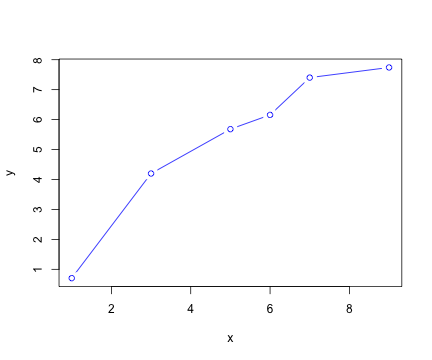
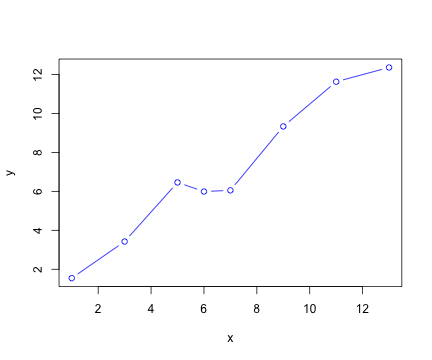
minor change

diff --git a/docs/about.html b/docs/about.html
@@ -259,51 +259,51 @@ pre > code.sourceCode > span > a:first-child::before { text-decoration: underlin
 <div class="sourceCode cell-code" id="cb1"><pre class="sourceCode julia code-with-copy"><code class="sourceCode julia"><span id="cb1-1"><a href="#cb1-1" aria-hidden="true" tabindex="-1"></a><span class="im">using</span> <span class="bu">Plots</span></span>
 <span id="cb1-2"><a href="#cb1-2" aria-hidden="true" tabindex="-1"></a><span class="fu">f</span>(x) <span class="op">=</span> x<span class="op">^</span><span class="fl">3</span> <span class="op">+</span> <span class="fl">2</span>x<span class="op">^</span><span class="fl">2</span> <span class="op">-</span> <span class="fl">7</span>x <span class="op">+</span> <span class="fl">35</span></span>
 <span id="cb1-3"><a href="#cb1-3" aria-hidden="true" tabindex="-1"></a><span class="fu">plot</span>(f)</span></code><button title="Copy to Clipboard" class="code-copy-button"><i class="bi"></i></button></pre></div>
-<div class="cell-output cell-output-display" data-execution_count="6">
+<div class="cell-output cell-output-display" data-execution_count="2">
 <!--?xml version="1.0" encoding="utf-8"?-->
 <svg xmlns="http://www.w3.org/2000/svg" xlink="http://www.w3.org/1999/xlink" width="672" height="480" viewbox="0 0 2688 1920">
 <defs>
-  <clippath id="clip400">
+  <clippath id="clip750">
     <rect x="0" y="0" width="2688" height="1920"></rect>
   </clippath>
 </defs>
-<path clip-path="url(#clip400)" d="M0 1920 L2688 1920 L2688 0 L0 0  Z" fill="#ffffff" fill-rule="evenodd" fill-opacity="1"></path>
+<path clip-path="url(#clip750)" d="M0 1920 L2688 1920 L2688 0 L0 0  Z" fill="#ffffff" fill-rule="evenodd" fill-opacity="1"></path>
 <defs>
-  <clippath id="clip401">
+  <clippath id="clip751">
     <rect x="537" y="0" width="1883" height="1883"></rect>
   </clippath>
 </defs>
-<path clip-path="url(#clip400)" d="M172.001 1800.78 L2640.76 1800.78 L2640.76 47.2441 L172.001 47.2441  Z" fill="#ffffff" fill-rule="evenodd" fill-opacity="1"></path>
+<path clip-path="url(#clip750)" d="M172.001 1800.78 L2640.76 1800.78 L2640.76 47.2441 L172.001 47.2441  Z" fill="#ffffff" fill-rule="evenodd" fill-opacity="1"></path>
 <defs>
-  <clippath id="clip402">
+  <clippath id="clip752">
     <rect x="172" y="47" width="2470" height="1755"></rect>
   </clippath>
 </defs>
-<polyline clip-path="url(#clip402)" style="stroke:#000000; stroke-linecap:round; stroke-linejoin:round; stroke-width:2; stroke-opacity:0.1; fill:none" points="474.773,1800.78 474.773,47.2441 "></polyline>
-<polyline clip-path="url(#clip402)" style="stroke:#000000; stroke-linecap:round; stroke-linejoin:round; stroke-width:2; stroke-opacity:0.1; fill:none" points="940.576,1800.78 940.576,47.2441 "></polyline>
-<polyline clip-path="url(#clip402)" style="stroke:#000000; stroke-linecap:round; stroke-linejoin:round; stroke-width:2; stroke-opacity:0.1; fill:none" points="1406.38,1800.78 1406.38,47.2441 "></polyline>
-<polyline clip-path="url(#clip402)" style="stroke:#000000; stroke-linecap:round; stroke-linejoin:round; stroke-width:2; stroke-opacity:0.1; fill:none" points="1872.18,1800.78 1872.18,47.2441 "></polyline>
-<polyline clip-path="url(#clip402)" style="stroke:#000000; stroke-linecap:round; stroke-linejoin:round; stroke-width:2; stroke-opacity:0.1; fill:none" points="2337.98,1800.78 2337.98,47.2441 "></polyline>
-<polyline clip-path="url(#clip400)" style="stroke:#000000; stroke-linecap:round; stroke-linejoin:round; stroke-width:4; stroke-opacity:1; fill:none" points="172.001,1800.78 2640.76,1800.78 "></polyline>
-<polyline clip-path="url(#clip400)" style="stroke:#000000; stroke-linecap:round; stroke-linejoin:round; stroke-width:4; stroke-opacity:1; fill:none" points="474.773,1800.78 474.773,1781.88 "></polyline>
-<polyline clip-path="url(#clip400)" style="stroke:#000000; stroke-linecap:round; stroke-linejoin:round; stroke-width:4; stroke-opacity:1; fill:none" points="940.576,1800.78 940.576,1781.88 "></polyline>
-<polyline clip-path="url(#clip400)" style="stroke:#000000; stroke-linecap:round; stroke-linejoin:round; stroke-width:4; stroke-opacity:1; fill:none" points="1406.38,1800.78 1406.38,1781.88 "></polyline>
-<polyline clip-path="url(#clip400)" style="stroke:#000000; stroke-linecap:round; stroke-linejoin:round; stroke-width:4; stroke-opacity:1; fill:none" points="1872.18,1800.78 1872.18,1781.88 "></polyline>
-<polyline clip-path="url(#clip400)" style="stroke:#000000; stroke-linecap:round; stroke-linejoin:round; stroke-width:4; stroke-opacity:1; fill:none" points="2337.98,1800.78 2337.98,1781.88 "></polyline>
-<path clip-path="url(#clip400)" d="M443.674 1848.65 L473.35 1848.65 L473.35 1852.59 L443.674 1852.59 L443.674 1848.65 Z" fill="#000000" fill-rule="nonzero" fill-opacity="1"></path><path clip-path="url(#clip400)" d="M496.289 1835 L484.484 1853.45 L496.289 1853.45 L496.289 1835 M495.062 1830.92 L500.942 1830.92 L500.942 1853.45 L505.872 1853.45 L505.872 1857.34 L500.942 1857.34 L500.942 1865.48 L496.289 1865.48 L496.289 1857.34 L480.687 1857.34 L480.687 1852.82 L495.062 1830.92 Z" fill="#000000" fill-rule="nonzero" fill-opacity="1"></path><path clip-path="url(#clip400)" d="M910.518 1848.65 L940.194 1848.65 L940.194 1852.59 L910.518 1852.59 L910.518 1848.65 Z" fill="#000000" fill-rule="nonzero" fill-opacity="1"></path><path clip-path="url(#clip400)" d="M954.314 1861.55 L970.634 1861.55 L970.634 1865.48 L948.689 1865.48 L948.689 1861.55 Q951.351 1858.79 955.935 1854.16 Q960.541 1849.51 961.722 1848.17 Q963.967 1845.65 964.847 1843.91 Q965.749 1842.15 965.749 1840.46 Q965.749 1837.71 963.805 1835.97 Q961.884 1834.23 958.782 1834.23 Q956.583 1834.23 954.129 1835 Q951.698 1835.76 948.921 1837.31 L948.921 1832.59 Q951.745 1831.46 954.198 1830.88 Q956.652 1830.3 958.689 1830.3 Q964.06 1830.3 967.254 1832.98 Q970.448 1835.67 970.448 1840.16 Q970.448 1842.29 969.638 1844.21 Q968.851 1846.11 966.745 1848.7 Q966.166 1849.37 963.064 1852.59 Q959.962 1855.78 954.314 1861.55 Z" fill="#000000" fill-rule="nonzero" fill-opacity="1"></path><path clip-path="url(#clip400)" d="M1406.38 1834 Q1402.77 1834 1400.94 1837.57 Q1399.13 1841.11 1399.13 1848.24 Q1399.13 1855.34 1400.94 1858.91 Q1402.77 1862.45 1406.38 1862.45 Q1410.01 1862.45 1411.82 1858.91 Q1413.65 1855.34 1413.65 1848.24 Q1413.65 1841.11 1411.82 1837.57 Q1410.01 1834 1406.38 1834 M1406.38 1830.3 Q1412.19 1830.3 1415.24 1834.9 Q1418.32 1839.49 1418.32 1848.24 Q1418.32 1856.96 1415.24 1861.57 Q1412.19 1866.15 1406.38 1866.15 Q1400.57 1866.15 1397.49 1861.57 Q1394.43 1856.96 1394.43 1848.24 Q1394.43 1839.49 1397.49 1834.9 Q1400.57 1830.3 1406.38 1830.3 Z" fill="#000000" fill-rule="nonzero" fill-opacity="1"></path><path clip-path="url(#clip400)" d="M1866.83 1861.55 L1883.15 1861.55 L1883.15 1865.48 L1861.21 1865.48 L1861.21 1861.55 Q1863.87 1858.79 1868.45 1854.16 Q1873.06 1849.51 1874.24 1848.17 Q1876.49 1845.65 1877.37 1843.91 Q1878.27 1842.15 1878.27 1840.46 Q1878.27 1837.71 1876.32 1835.97 Q1874.4 1834.23 1871.3 1834.23 Q1869.1 1834.23 1866.65 1835 Q1864.22 1835.76 1861.44 1837.31 L1861.44 1832.59 Q1864.26 1831.46 1866.72 1830.88 Q1869.17 1830.3 1871.21 1830.3 Q1876.58 1830.3 1879.77 1832.98 Q1882.97 1835.67 1882.97 1840.16 Q1882.97 1842.29 1882.16 1844.21 Q1881.37 1846.11 1879.26 1848.7 Q1878.69 1849.37 1875.58 1852.59 Q1872.48 1855.78 1866.83 1861.55 Z" fill="#000000" fill-rule="nonzero" fill-opacity="1"></path><path clip-path="url(#clip400)" d="M2340.99 1835 L2329.19 1853.45 L2340.99 1853.45 L2340.99 1835 M2339.77 1830.92 L2345.65 1830.92 L2345.65 1853.45 L2350.58 1853.45 L2350.58 1857.34 L2345.65 1857.34 L2345.65 1865.48 L2340.99 1865.48 L2340.99 1857.34 L2325.39 1857.34 L2325.39 1852.82 L2339.77 1830.92 Z" fill="#000000" fill-rule="nonzero" fill-opacity="1"></path><polyline clip-path="url(#clip402)" style="stroke:#000000; stroke-linecap:round; stroke-linejoin:round; stroke-width:2; stroke-opacity:0.1; fill:none" points="172.001,1705.2 2640.76,1705.2 "></polyline>
-<polyline clip-path="url(#clip402)" style="stroke:#000000; stroke-linecap:round; stroke-linejoin:round; stroke-width:2; stroke-opacity:0.1; fill:none" points="172.001,1245.68 2640.76,1245.68 "></polyline>
-<polyline clip-path="url(#clip402)" style="stroke:#000000; stroke-linecap:round; stroke-linejoin:round; stroke-width:2; stroke-opacity:0.1; fill:none" points="172.001,786.155 2640.76,786.155 "></polyline>
-<polyline clip-path="url(#clip402)" style="stroke:#000000; stroke-linecap:round; stroke-linejoin:round; stroke-width:2; stroke-opacity:0.1; fill:none" points="172.001,326.633 2640.76,326.633 "></polyline>
-<polyline clip-path="url(#clip400)" style="stroke:#000000; stroke-linecap:round; stroke-linejoin:round; stroke-width:4; stroke-opacity:1; fill:none" points="172.001,1800.78 172.001,47.2441 "></polyline>
-<polyline clip-path="url(#clip400)" style="stroke:#000000; stroke-linecap:round; stroke-linejoin:round; stroke-width:4; stroke-opacity:1; fill:none" points="172.001,1705.2 190.899,1705.2 "></polyline>
-<polyline clip-path="url(#clip400)" style="stroke:#000000; stroke-linecap:round; stroke-linejoin:round; stroke-width:4; stroke-opacity:1; fill:none" points="172.001,1245.68 190.899,1245.68 "></polyline>
-<polyline clip-path="url(#clip400)" style="stroke:#000000; stroke-linecap:round; stroke-linejoin:round; stroke-width:4; stroke-opacity:1; fill:none" points="172.001,786.155 190.899,786.155 "></polyline>
-<polyline clip-path="url(#clip400)" style="stroke:#000000; stroke-linecap:round; stroke-linejoin:round; stroke-width:4; stroke-opacity:1; fill:none" points="172.001,326.633 190.899,326.633 "></polyline>
-<path clip-path="url(#clip400)" d="M119.737 1691 Q116.126 1691 114.297 1694.56 Q112.492 1698.1 112.492 1705.23 Q112.492 1712.34 114.297 1715.9 Q116.126 1719.45 119.737 1719.45 Q123.371 1719.45 125.177 1715.9 Q127.005 1712.34 127.005 1705.23 Q127.005 1698.1 125.177 1694.56 Q123.371 1691 119.737 1691 M119.737 1687.29 Q125.547 1687.29 128.603 1691.9 Q131.681 1696.48 131.681 1705.23 Q131.681 1713.96 128.603 1718.57 Q125.547 1723.15 119.737 1723.15 Q113.927 1723.15 110.848 1718.57 Q107.793 1713.96 107.793 1705.23 Q107.793 1696.48 110.848 1691.9 Q113.927 1687.29 119.737 1687.29 Z" fill="#000000" fill-rule="nonzero" fill-opacity="1"></path><path clip-path="url(#clip400)" d="M79.6214 1228.4 L97.9778 1228.4 L97.9778 1232.33 L83.9038 1232.33 L83.9038 1240.8 Q84.9223 1240.46 85.9408 1240.3 Q86.9593 1240.11 87.9778 1240.11 Q93.7649 1240.11 97.1445 1243.28 Q100.524 1246.45 100.524 1251.87 Q100.524 1257.45 97.0519 1260.55 Q93.5797 1263.63 87.2603 1263.63 Q85.0843 1263.63 82.8158 1263.26 Q80.5705 1262.89 78.1631 1262.15 L78.1631 1257.45 Q80.2464 1258.58 82.4686 1259.14 Q84.6908 1259.69 87.1677 1259.69 Q91.1723 1259.69 93.5102 1257.59 Q95.8482 1255.48 95.8482 1251.87 Q95.8482 1248.26 93.5102 1246.15 Q91.1723 1244.05 87.1677 1244.05 Q85.2927 1244.05 83.4177 1244.46 Q81.5658 1244.88 79.6214 1245.76 L79.6214 1228.4 Z" fill="#000000" fill-rule="nonzero" fill-opacity="1"></path><path clip-path="url(#clip400)" d="M119.737 1231.48 Q116.126 1231.48 114.297 1235.04 Q112.492 1238.58 112.492 1245.71 Q112.492 1252.82 114.297 1256.38 Q116.126 1259.92 119.737 1259.92 Q123.371 1259.92 125.177 1256.38 Q127.005 1252.82 127.005 1245.71 Q127.005 1238.58 125.177 1235.04 Q123.371 1231.48 119.737 1231.48 M119.737 1227.77 Q125.547 1227.77 128.603 1232.38 Q131.681 1236.96 131.681 1245.71 Q131.681 1254.44 128.603 1259.04 Q125.547 1263.63 119.737 1263.63 Q113.927 1263.63 110.848 1259.04 Q107.793 1254.44 107.793 1245.71 Q107.793 1236.96 110.848 1232.38 Q113.927 1227.77 119.737 1227.77 Z" fill="#000000" fill-rule="nonzero" fill-opacity="1"></path><path clip-path="url(#clip400)" d="M50.2234 799.5 L57.8623 799.5 L57.8623 773.134 L49.5521 774.801 L49.5521 770.542 L57.816 768.875 L62.4919 768.875 L62.4919 799.5 L70.1307 799.5 L70.1307 803.435 L50.2234 803.435 L50.2234 799.5 Z" fill="#000000" fill-rule="nonzero" fill-opacity="1"></path><path clip-path="url(#clip400)" d="M89.5751 771.954 Q85.964 771.954 84.1353 775.519 Q82.3297 779.06 82.3297 786.19 Q82.3297 793.296 84.1353 796.861 Q85.964 800.403 89.5751 800.403 Q93.2093 800.403 95.0148 796.861 Q96.8435 793.296 96.8435 786.19 Q96.8435 779.06 95.0148 775.519 Q93.2093 771.954 89.5751 771.954 M89.5751 768.25 Q95.3852 768.25 98.4408 772.857 Q101.519 777.44 101.519 786.19 Q101.519 794.917 98.4408 799.523 Q95.3852 804.106 89.5751 804.106 Q83.7649 804.106 80.6862 799.523 Q77.6307 794.917 77.6307 786.19 Q77.6307 777.44 80.6862 772.857 Q83.7649 768.25 89.5751 768.25 Z" fill="#000000" fill-rule="nonzero" fill-opacity="1"></path><path clip-path="url(#clip400)" d="M119.737 771.954 Q116.126 771.954 114.297 775.519 Q112.492 779.06 112.492 786.19 Q112.492 793.296 114.297 796.861 Q116.126 800.403 119.737 800.403 Q123.371 800.403 125.177 796.861 Q127.005 793.296 127.005 786.19 Q127.005 779.06 125.177 775.519 Q123.371 771.954 119.737 771.954 M119.737 768.25 Q125.547 768.25 128.603 772.857 Q131.681 777.44 131.681 786.19 Q131.681 794.917 128.603 799.523 Q125.547 804.106 119.737 804.106 Q113.927 804.106 110.848 799.523 Q107.793 794.917 107.793 786.19 Q107.793 777.44 110.848 772.857 Q113.927 768.25 119.737 768.25 Z" fill="#000000" fill-rule="nonzero" fill-opacity="1"></path><path clip-path="url(#clip400)" d="M50.2234 339.978 L57.8623 339.978 L57.8623 313.613 L49.5521 315.279 L49.5521 311.02 L57.816 309.353 L62.4919 309.353 L62.4919 339.978 L70.1307 339.978 L70.1307 343.913 L50.2234 343.913 L50.2234 339.978 Z" fill="#000000" fill-rule="nonzero" fill-opacity="1"></path><path clip-path="url(#clip400)" d="M79.6214 309.353 L97.9778 309.353 L97.9778 313.289 L83.9038 313.289 L83.9038 321.761 Q84.9223 321.413 85.9408 321.251 Q86.9593 321.066 87.9778 321.066 Q93.7649 321.066 97.1445 324.238 Q100.524 327.409 100.524 332.825 Q100.524 338.404 97.0519 341.506 Q93.5797 344.585 87.2603 344.585 Q85.0843 344.585 82.8158 344.214 Q80.5705 343.844 78.1631 343.103 L78.1631 338.404 Q80.2464 339.538 82.4686 340.094 Q84.6908 340.649 87.1677 340.649 Q91.1723 340.649 93.5102 338.543 Q95.8482 336.437 95.8482 332.825 Q95.8482 329.214 93.5102 327.108 Q91.1723 325.001 87.1677 325.001 Q85.2927 325.001 83.4177 325.418 Q81.5658 325.835 79.6214 326.714 L79.6214 309.353 Z" fill="#000000" fill-rule="nonzero" fill-opacity="1"></path><path clip-path="url(#clip400)" d="M119.737 312.432 Q116.126 312.432 114.297 315.997 Q112.492 319.538 112.492 326.668 Q112.492 333.775 114.297 337.339 Q116.126 340.881 119.737 340.881 Q123.371 340.881 125.177 337.339 Q127.005 333.775 127.005 326.668 Q127.005 319.538 125.177 315.997 Q123.371 312.432 119.737 312.432 M119.737 308.728 Q125.547 308.728 128.603 313.335 Q131.681 317.918 131.681 326.668 Q131.681 335.395 128.603 340.001 Q125.547 344.585 119.737 344.585 Q113.927 344.585 110.848 340.001 Q107.793 335.395 107.793 326.668 Q107.793 317.918 110.848 313.335 Q113.927 308.728 119.737 308.728 Z" fill="#000000" fill-rule="nonzero" fill-opacity="1"></path><polyline clip-path="url(#clip402)" style="stroke:#009af9; stroke-linecap:round; stroke-linejoin:round; stroke-width:4; stroke-opacity:1; fill:none" points="241.872,1751.15 245.663,1744 249.453,1736.92 253.244,1729.89 257.035,1722.93 274.561,1691.56 292.086,1661.5 309.612,1632.72 327.137,1605.21 344.663,1578.94 362.189,1553.88 379.714,1530.01 397.24,1507.31 418.304,1481.54 439.369,1457.38 460.433,1434.79 481.498,1413.74 517.117,1381.51 552.736,1353.34 572.083,1339.67 591.429,1327.11 610.775,1315.64 630.121,1305.2 665.793,1288.6 701.464,1275.25 739.707,1264.33 777.95,1256.67 822.259,1251.55 866.567,1250.11 905.943,1251.61 945.319,1255.44 979.849,1260.52 1014.38,1267 1089.67,1285.17 1165.41,1307.47 1249.15,1334.55 1328.83,1360.41 1411.67,1384.99 1481.41,1402.04 1523.98,1410.15 1566.55,1416.09 1605.55,1419.36 1644.55,1420.27 1680.57,1418.8 1716.58,1414.9 1753.07,1408.25 1789.55,1398.7 1830.44,1384.26 1871.33,1365.59 1889.86,1355.66 1908.38,1344.77 1926.91,1332.9 1945.44,1320.01 1966.65,1303.98 1987.86,1286.55 2009.07,1267.67 2030.28,1247.29 2049.92,1227.07 2069.56,1205.5 2089.2,1182.55 2108.84,1158.19 2128.2,1132.77 2147.56,1105.9 2166.93,1077.57 2186.29,1047.74 2205.09,1017.32 2223.89,985.42 2242.69,952.022 2261.48,917.095 2280.76,879.672 2300.03,840.579 2319.3,799.787 2338.57,757.263 2359.69,708.648 2380.8,657.875 2401.91,604.905 2423.03,549.695 2438.36,508.167 2453.7,465.42 2469.04,421.439 2484.37,376.207 2499.71,329.709 2515.04,281.929 2530.38,232.852 2545.72,182.462 2552.01,161.403 2558.3,140.119 2564.59,118.609 2570.89,96.8724 "></polyline>
-<path clip-path="url(#clip400)" d="M254.293 209.375 L553.599 209.375 L553.599 105.695 L254.293 105.695  Z" fill="#ffffff" fill-rule="evenodd" fill-opacity="1"></path>
-<polyline clip-path="url(#clip400)" style="stroke:#000000; stroke-linecap:round; stroke-linejoin:round; stroke-width:4; stroke-opacity:1; fill:none" points="254.293,209.375 553.599,209.375 553.599,105.695 254.293,105.695 254.293,209.375 "></polyline>
-<polyline clip-path="url(#clip400)" style="stroke:#009af9; stroke-linecap:round; stroke-linejoin:round; stroke-width:4; stroke-opacity:1; fill:none" points="281.724,157.535 446.307,157.535 "></polyline>
-<path clip-path="url(#clip400)" d="M487.581 177.223 Q485.775 181.852 484.062 183.264 Q482.349 184.676 479.479 184.676 L476.076 184.676 L476.076 181.112 L478.576 181.112 Q480.335 181.112 481.307 180.278 Q482.28 179.445 483.46 176.343 L484.224 174.399 L473.738 148.889 L478.252 148.889 L486.354 169.167 L494.455 148.889 L498.969 148.889 L487.581 177.223 Z" fill="#000000" fill-rule="nonzero" fill-opacity="1"></path><path clip-path="url(#clip400)" d="M506.261 170.88 L513.9 170.88 L513.9 144.515 L505.59 146.181 L505.59 141.922 L513.854 140.255 L518.529 140.255 L518.529 170.88 L526.168 170.88 L526.168 174.815 L506.261 174.815 L506.261 170.88 Z" fill="#000000" fill-rule="nonzero" fill-opacity="1"></path></svg>
+<polyline clip-path="url(#clip752)" style="stroke:#000000; stroke-linecap:round; stroke-linejoin:round; stroke-width:2; stroke-opacity:0.1; fill:none" points="474.773,1800.78 474.773,47.2441 "></polyline>
+<polyline clip-path="url(#clip752)" style="stroke:#000000; stroke-linecap:round; stroke-linejoin:round; stroke-width:2; stroke-opacity:0.1; fill:none" points="940.576,1800.78 940.576,47.2441 "></polyline>
+<polyline clip-path="url(#clip752)" style="stroke:#000000; stroke-linecap:round; stroke-linejoin:round; stroke-width:2; stroke-opacity:0.1; fill:none" points="1406.38,1800.78 1406.38,47.2441 "></polyline>
+<polyline clip-path="url(#clip752)" style="stroke:#000000; stroke-linecap:round; stroke-linejoin:round; stroke-width:2; stroke-opacity:0.1; fill:none" points="1872.18,1800.78 1872.18,47.2441 "></polyline>
+<polyline clip-path="url(#clip752)" style="stroke:#000000; stroke-linecap:round; stroke-linejoin:round; stroke-width:2; stroke-opacity:0.1; fill:none" points="2337.98,1800.78 2337.98,47.2441 "></polyline>
+<polyline clip-path="url(#clip750)" style="stroke:#000000; stroke-linecap:round; stroke-linejoin:round; stroke-width:4; stroke-opacity:1; fill:none" points="172.001,1800.78 2640.76,1800.78 "></polyline>
+<polyline clip-path="url(#clip750)" style="stroke:#000000; stroke-linecap:round; stroke-linejoin:round; stroke-width:4; stroke-opacity:1; fill:none" points="474.773,1800.78 474.773,1781.88 "></polyline>
+<polyline clip-path="url(#clip750)" style="stroke:#000000; stroke-linecap:round; stroke-linejoin:round; stroke-width:4; stroke-opacity:1; fill:none" points="940.576,1800.78 940.576,1781.88 "></polyline>
+<polyline clip-path="url(#clip750)" style="stroke:#000000; stroke-linecap:round; stroke-linejoin:round; stroke-width:4; stroke-opacity:1; fill:none" points="1406.38,1800.78 1406.38,1781.88 "></polyline>
+<polyline clip-path="url(#clip750)" style="stroke:#000000; stroke-linecap:round; stroke-linejoin:round; stroke-width:4; stroke-opacity:1; fill:none" points="1872.18,1800.78 1872.18,1781.88 "></polyline>
+<polyline clip-path="url(#clip750)" style="stroke:#000000; stroke-linecap:round; stroke-linejoin:round; stroke-width:4; stroke-opacity:1; fill:none" points="2337.98,1800.78 2337.98,1781.88 "></polyline>
+<path clip-path="url(#clip750)" d="M443.674 1848.65 L473.35 1848.65 L473.35 1852.59 L443.674 1852.59 L443.674 1848.65 Z" fill="#000000" fill-rule="nonzero" fill-opacity="1"></path><path clip-path="url(#clip750)" d="M496.289 1835 L484.484 1853.45 L496.289 1853.45 L496.289 1835 M495.062 1830.92 L500.942 1830.92 L500.942 1853.45 L505.872 1853.45 L505.872 1857.34 L500.942 1857.34 L500.942 1865.48 L496.289 1865.48 L496.289 1857.34 L480.687 1857.34 L480.687 1852.82 L495.062 1830.92 Z" fill="#000000" fill-rule="nonzero" fill-opacity="1"></path><path clip-path="url(#clip750)" d="M910.518 1848.65 L940.194 1848.65 L940.194 1852.59 L910.518 1852.59 L910.518 1848.65 Z" fill="#000000" fill-rule="nonzero" fill-opacity="1"></path><path clip-path="url(#clip750)" d="M954.314 1861.55 L970.634 1861.55 L970.634 1865.48 L948.689 1865.48 L948.689 1861.55 Q951.351 1858.79 955.935 1854.16 Q960.541 1849.51 961.722 1848.17 Q963.967 1845.65 964.847 1843.91 Q965.749 1842.15 965.749 1840.46 Q965.749 1837.71 963.805 1835.97 Q961.884 1834.23 958.782 1834.23 Q956.583 1834.23 954.129 1835 Q951.698 1835.76 948.921 1837.31 L948.921 1832.59 Q951.745 1831.46 954.198 1830.88 Q956.652 1830.3 958.689 1830.3 Q964.06 1830.3 967.254 1832.98 Q970.448 1835.67 970.448 1840.16 Q970.448 1842.29 969.638 1844.21 Q968.851 1846.11 966.745 1848.7 Q966.166 1849.37 963.064 1852.59 Q959.962 1855.78 954.314 1861.55 Z" fill="#000000" fill-rule="nonzero" fill-opacity="1"></path><path clip-path="url(#clip750)" d="M1406.38 1834 Q1402.77 1834 1400.94 1837.57 Q1399.13 1841.11 1399.13 1848.24 Q1399.13 1855.34 1400.94 1858.91 Q1402.77 1862.45 1406.38 1862.45 Q1410.01 1862.45 1411.82 1858.91 Q1413.65 1855.34 1413.65 1848.24 Q1413.65 1841.11 1411.82 1837.57 Q1410.01 1834 1406.38 1834 M1406.38 1830.3 Q1412.19 1830.3 1415.24 1834.9 Q1418.32 1839.49 1418.32 1848.24 Q1418.32 1856.96 1415.24 1861.57 Q1412.19 1866.15 1406.38 1866.15 Q1400.57 1866.15 1397.49 1861.57 Q1394.43 1856.96 1394.43 1848.24 Q1394.43 1839.49 1397.49 1834.9 Q1400.57 1830.3 1406.38 1830.3 Z" fill="#000000" fill-rule="nonzero" fill-opacity="1"></path><path clip-path="url(#clip750)" d="M1866.83 1861.55 L1883.15 1861.55 L1883.15 1865.48 L1861.21 1865.48 L1861.21 1861.55 Q1863.87 1858.79 1868.45 1854.16 Q1873.06 1849.51 1874.24 1848.17 Q1876.49 1845.65 1877.37 1843.91 Q1878.27 1842.15 1878.27 1840.46 Q1878.27 1837.71 1876.32 1835.97 Q1874.4 1834.23 1871.3 1834.23 Q1869.1 1834.23 1866.65 1835 Q1864.22 1835.76 1861.44 1837.31 L1861.44 1832.59 Q1864.26 1831.46 1866.72 1830.88 Q1869.17 1830.3 1871.21 1830.3 Q1876.58 1830.3 1879.77 1832.98 Q1882.97 1835.67 1882.97 1840.16 Q1882.97 1842.29 1882.16 1844.21 Q1881.37 1846.11 1879.26 1848.7 Q1878.69 1849.37 1875.58 1852.59 Q1872.48 1855.78 1866.83 1861.55 Z" fill="#000000" fill-rule="nonzero" fill-opacity="1"></path><path clip-path="url(#clip750)" d="M2340.99 1835 L2329.19 1853.45 L2340.99 1853.45 L2340.99 1835 M2339.77 1830.92 L2345.65 1830.92 L2345.65 1853.45 L2350.58 1853.45 L2350.58 1857.34 L2345.65 1857.34 L2345.65 1865.48 L2340.99 1865.48 L2340.99 1857.34 L2325.39 1857.34 L2325.39 1852.82 L2339.77 1830.92 Z" fill="#000000" fill-rule="nonzero" fill-opacity="1"></path><polyline clip-path="url(#clip752)" style="stroke:#000000; stroke-linecap:round; stroke-linejoin:round; stroke-width:2; stroke-opacity:0.1; fill:none" points="172.001,1705.2 2640.76,1705.2 "></polyline>
+<polyline clip-path="url(#clip752)" style="stroke:#000000; stroke-linecap:round; stroke-linejoin:round; stroke-width:2; stroke-opacity:0.1; fill:none" points="172.001,1245.68 2640.76,1245.68 "></polyline>
+<polyline clip-path="url(#clip752)" style="stroke:#000000; stroke-linecap:round; stroke-linejoin:round; stroke-width:2; stroke-opacity:0.1; fill:none" points="172.001,786.155 2640.76,786.155 "></polyline>
+<polyline clip-path="url(#clip752)" style="stroke:#000000; stroke-linecap:round; stroke-linejoin:round; stroke-width:2; stroke-opacity:0.1; fill:none" points="172.001,326.633 2640.76,326.633 "></polyline>
+<polyline clip-path="url(#clip750)" style="stroke:#000000; stroke-linecap:round; stroke-linejoin:round; stroke-width:4; stroke-opacity:1; fill:none" points="172.001,1800.78 172.001,47.2441 "></polyline>
+<polyline clip-path="url(#clip750)" style="stroke:#000000; stroke-linecap:round; stroke-linejoin:round; stroke-width:4; stroke-opacity:1; fill:none" points="172.001,1705.2 190.899,1705.2 "></polyline>
+<polyline clip-path="url(#clip750)" style="stroke:#000000; stroke-linecap:round; stroke-linejoin:round; stroke-width:4; stroke-opacity:1; fill:none" points="172.001,1245.68 190.899,1245.68 "></polyline>
+<polyline clip-path="url(#clip750)" style="stroke:#000000; stroke-linecap:round; stroke-linejoin:round; stroke-width:4; stroke-opacity:1; fill:none" points="172.001,786.155 190.899,786.155 "></polyline>
+<polyline clip-path="url(#clip750)" style="stroke:#000000; stroke-linecap:round; stroke-linejoin:round; stroke-width:4; stroke-opacity:1; fill:none" points="172.001,326.633 190.899,326.633 "></polyline>
+<path clip-path="url(#clip750)" d="M119.737 1691 Q116.126 1691 114.297 1694.56 Q112.492 1698.1 112.492 1705.23 Q112.492 1712.34 114.297 1715.9 Q116.126 1719.45 119.737 1719.45 Q123.371 1719.45 125.177 1715.9 Q127.005 1712.34 127.005 1705.23 Q127.005 1698.1 125.177 1694.56 Q123.371 1691 119.737 1691 M119.737 1687.29 Q125.547 1687.29 128.603 1691.9 Q131.681 1696.48 131.681 1705.23 Q131.681 1713.96 128.603 1718.57 Q125.547 1723.15 119.737 1723.15 Q113.927 1723.15 110.848 1718.57 Q107.793 1713.96 107.793 1705.23 Q107.793 1696.48 110.848 1691.9 Q113.927 1687.29 119.737 1687.29 Z" fill="#000000" fill-rule="nonzero" fill-opacity="1"></path><path clip-path="url(#clip750)" d="M79.6214 1228.4 L97.9778 1228.4 L97.9778 1232.33 L83.9038 1232.33 L83.9038 1240.8 Q84.9223 1240.46 85.9408 1240.3 Q86.9593 1240.11 87.9778 1240.11 Q93.7649 1240.11 97.1445 1243.28 Q100.524 1246.45 100.524 1251.87 Q100.524 1257.45 97.0519 1260.55 Q93.5797 1263.63 87.2603 1263.63 Q85.0843 1263.63 82.8158 1263.26 Q80.5705 1262.89 78.1631 1262.15 L78.1631 1257.45 Q80.2464 1258.58 82.4686 1259.14 Q84.6908 1259.69 87.1677 1259.69 Q91.1723 1259.69 93.5102 1257.59 Q95.8482 1255.48 95.8482 1251.87 Q95.8482 1248.26 93.5102 1246.15 Q91.1723 1244.05 87.1677 1244.05 Q85.2927 1244.05 83.4177 1244.46 Q81.5658 1244.88 79.6214 1245.76 L79.6214 1228.4 Z" fill="#000000" fill-rule="nonzero" fill-opacity="1"></path><path clip-path="url(#clip750)" d="M119.737 1231.48 Q116.126 1231.48 114.297 1235.04 Q112.492 1238.58 112.492 1245.71 Q112.492 1252.82 114.297 1256.38 Q116.126 1259.92 119.737 1259.92 Q123.371 1259.92 125.177 1256.38 Q127.005 1252.82 127.005 1245.71 Q127.005 1238.58 125.177 1235.04 Q123.371 1231.48 119.737 1231.48 M119.737 1227.77 Q125.547 1227.77 128.603 1232.38 Q131.681 1236.96 131.681 1245.71 Q131.681 1254.44 128.603 1259.04 Q125.547 1263.63 119.737 1263.63 Q113.927 1263.63 110.848 1259.04 Q107.793 1254.44 107.793 1245.71 Q107.793 1236.96 110.848 1232.38 Q113.927 1227.77 119.737 1227.77 Z" fill="#000000" fill-rule="nonzero" fill-opacity="1"></path><path clip-path="url(#clip750)" d="M50.2234 799.5 L57.8623 799.5 L57.8623 773.134 L49.5521 774.801 L49.5521 770.542 L57.816 768.875 L62.4919 768.875 L62.4919 799.5 L70.1307 799.5 L70.1307 803.435 L50.2234 803.435 L50.2234 799.5 Z" fill="#000000" fill-rule="nonzero" fill-opacity="1"></path><path clip-path="url(#clip750)" d="M89.5751 771.954 Q85.964 771.954 84.1353 775.519 Q82.3297 779.06 82.3297 786.19 Q82.3297 793.296 84.1353 796.861 Q85.964 800.403 89.5751 800.403 Q93.2093 800.403 95.0148 796.861 Q96.8435 793.296 96.8435 786.19 Q96.8435 779.06 95.0148 775.519 Q93.2093 771.954 89.5751 771.954 M89.5751 768.25 Q95.3852 768.25 98.4408 772.857 Q101.519 777.44 101.519 786.19 Q101.519 794.917 98.4408 799.523 Q95.3852 804.106 89.5751 804.106 Q83.7649 804.106 80.6862 799.523 Q77.6307 794.917 77.6307 786.19 Q77.6307 777.44 80.6862 772.857 Q83.7649 768.25 89.5751 768.25 Z" fill="#000000" fill-rule="nonzero" fill-opacity="1"></path><path clip-path="url(#clip750)" d="M119.737 771.954 Q116.126 771.954 114.297 775.519 Q112.492 779.06 112.492 786.19 Q112.492 793.296 114.297 796.861 Q116.126 800.403 119.737 800.403 Q123.371 800.403 125.177 796.861 Q127.005 793.296 127.005 786.19 Q127.005 779.06 125.177 775.519 Q123.371 771.954 119.737 771.954 M119.737 768.25 Q125.547 768.25 128.603 772.857 Q131.681 777.44 131.681 786.19 Q131.681 794.917 128.603 799.523 Q125.547 804.106 119.737 804.106 Q113.927 804.106 110.848 799.523 Q107.793 794.917 107.793 786.19 Q107.793 777.44 110.848 772.857 Q113.927 768.25 119.737 768.25 Z" fill="#000000" fill-rule="nonzero" fill-opacity="1"></path><path clip-path="url(#clip750)" d="M50.2234 339.978 L57.8623 339.978 L57.8623 313.613 L49.5521 315.279 L49.5521 311.02 L57.816 309.353 L62.4919 309.353 L62.4919 339.978 L70.1307 339.978 L70.1307 343.913 L50.2234 343.913 L50.2234 339.978 Z" fill="#000000" fill-rule="nonzero" fill-opacity="1"></path><path clip-path="url(#clip750)" d="M79.6214 309.353 L97.9778 309.353 L97.9778 313.289 L83.9038 313.289 L83.9038 321.761 Q84.9223 321.413 85.9408 321.251 Q86.9593 321.066 87.9778 321.066 Q93.7649 321.066 97.1445 324.238 Q100.524 327.409 100.524 332.825 Q100.524 338.404 97.0519 341.506 Q93.5797 344.585 87.2603 344.585 Q85.0843 344.585 82.8158 344.214 Q80.5705 343.844 78.1631 343.103 L78.1631 338.404 Q80.2464 339.538 82.4686 340.094 Q84.6908 340.649 87.1677 340.649 Q91.1723 340.649 93.5102 338.543 Q95.8482 336.437 95.8482 332.825 Q95.8482 329.214 93.5102 327.108 Q91.1723 325.001 87.1677 325.001 Q85.2927 325.001 83.4177 325.418 Q81.5658 325.835 79.6214 326.714 L79.6214 309.353 Z" fill="#000000" fill-rule="nonzero" fill-opacity="1"></path><path clip-path="url(#clip750)" d="M119.737 312.432 Q116.126 312.432 114.297 315.997 Q112.492 319.538 112.492 326.668 Q112.492 333.775 114.297 337.339 Q116.126 340.881 119.737 340.881 Q123.371 340.881 125.177 337.339 Q127.005 333.775 127.005 326.668 Q127.005 319.538 125.177 315.997 Q123.371 312.432 119.737 312.432 M119.737 308.728 Q125.547 308.728 128.603 313.335 Q131.681 317.918 131.681 326.668 Q131.681 335.395 128.603 340.001 Q125.547 344.585 119.737 344.585 Q113.927 344.585 110.848 340.001 Q107.793 335.395 107.793 326.668 Q107.793 317.918 110.848 313.335 Q113.927 308.728 119.737 308.728 Z" fill="#000000" fill-rule="nonzero" fill-opacity="1"></path><polyline clip-path="url(#clip752)" style="stroke:#009af9; stroke-linecap:round; stroke-linejoin:round; stroke-width:4; stroke-opacity:1; fill:none" points="241.872,1751.15 245.663,1744 249.453,1736.92 253.244,1729.89 257.035,1722.93 274.561,1691.56 292.086,1661.5 309.612,1632.72 327.137,1605.21 344.663,1578.94 362.189,1553.88 379.714,1530.01 397.24,1507.31 418.304,1481.54 439.369,1457.38 460.433,1434.79 481.498,1413.74 517.117,1381.51 552.736,1353.34 572.083,1339.67 591.429,1327.11 610.775,1315.64 630.121,1305.2 665.793,1288.6 701.464,1275.25 739.707,1264.33 777.95,1256.67 822.259,1251.55 866.567,1250.11 905.943,1251.61 945.319,1255.44 979.849,1260.52 1014.38,1267 1089.67,1285.17 1165.41,1307.47 1249.15,1334.55 1328.83,1360.41 1411.67,1384.99 1481.41,1402.04 1523.98,1410.15 1566.55,1416.09 1605.55,1419.36 1644.55,1420.27 1680.57,1418.8 1716.58,1414.9 1753.07,1408.25 1789.55,1398.7 1830.44,1384.26 1871.33,1365.59 1889.86,1355.66 1908.38,1344.77 1926.91,1332.9 1945.44,1320.01 1966.65,1303.98 1987.86,1286.55 2009.07,1267.67 2030.28,1247.29 2049.92,1227.07 2069.56,1205.5 2089.2,1182.55 2108.84,1158.19 2128.2,1132.77 2147.56,1105.9 2166.93,1077.57 2186.29,1047.74 2205.09,1017.32 2223.89,985.42 2242.69,952.022 2261.48,917.095 2280.76,879.672 2300.03,840.579 2319.3,799.787 2338.57,757.263 2359.69,708.648 2380.8,657.875 2401.91,604.905 2423.03,549.695 2438.36,508.167 2453.7,465.42 2469.04,421.439 2484.37,376.207 2499.71,329.709 2515.04,281.929 2530.38,232.852 2545.72,182.462 2552.01,161.403 2558.3,140.119 2564.59,118.609 2570.89,96.8724 "></polyline>
+<path clip-path="url(#clip750)" d="M254.293 209.375 L553.599 209.375 L553.599 105.695 L254.293 105.695  Z" fill="#ffffff" fill-rule="evenodd" fill-opacity="1"></path>
+<polyline clip-path="url(#clip750)" style="stroke:#000000; stroke-linecap:round; stroke-linejoin:round; stroke-width:4; stroke-opacity:1; fill:none" points="254.293,209.375 553.599,209.375 553.599,105.695 254.293,105.695 254.293,209.375 "></polyline>
+<polyline clip-path="url(#clip750)" style="stroke:#009af9; stroke-linecap:round; stroke-linejoin:round; stroke-width:4; stroke-opacity:1; fill:none" points="281.724,157.535 446.307,157.535 "></polyline>
+<path clip-path="url(#clip750)" d="M487.581 177.223 Q485.775 181.852 484.062 183.264 Q482.349 184.676 479.479 184.676 L476.076 184.676 L476.076 181.112 L478.576 181.112 Q480.335 181.112 481.307 180.278 Q482.28 179.445 483.46 176.343 L484.224 174.399 L473.738 148.889 L478.252 148.889 L486.354 169.167 L494.455 148.889 L498.969 148.889 L487.581 177.223 Z" fill="#000000" fill-rule="nonzero" fill-opacity="1"></path><path clip-path="url(#clip750)" d="M506.261 170.88 L513.9 170.88 L513.9 144.515 L505.59 146.181 L505.59 141.922 L513.854 140.255 L518.529 140.255 L518.529 170.88 L526.168 170.88 L526.168 174.815 L506.261 174.815 L506.261 170.88 Z" fill="#000000" fill-rule="nonzero" fill-opacity="1"></path></svg>
 </div>
 </div>
 </section>
@@ -312,7 +312,7 @@ pre > code.sourceCode > span > a:first-child::before { text-decoration: underlin
 <div class="cell" data-execution_count="2">
 <div class="sourceCode cell-code" id="cb2"><pre class="sourceCode julia code-with-copy"><code class="sourceCode julia"><span id="cb2-1"><a href="#cb2-1" aria-hidden="true" tabindex="-1"></a><span class="im">using</span> <span class="bu">RCall</span></span>
 <span id="cb2-2"><a href="#cb2-2" aria-hidden="true" tabindex="-1"></a>R<span class="st">"""</span></span>
-<span id="cb2-3"><a href="#cb2-3" aria-hidden="true" tabindex="-1"></a><span class="st">x &lt;- c(1, 3, 5, 6, 7, 9)</span></span>
+<span id="cb2-3"><a href="#cb2-3" aria-hidden="true" tabindex="-1"></a><span class="st">x &lt;- c(1, 3, 5, 6, 7, 9, 11, 13)</span></span>
 <span id="cb2-4"><a href="#cb2-4" aria-hidden="true" tabindex="-1"></a><span class="st">y &lt;- x + rnorm(length(x))</span></span>
 <span id="cb2-5"><a href="#cb2-5" aria-hidden="true" tabindex="-1"></a><span class="st">plot(x, y, type = "b", col = "blue")</span></span>
 <span id="cb2-6"><a href="#cb2-6" aria-hidden="true" tabindex="-1"></a><span class="st">y</span></span>
@@ -320,9 +320,10 @@ pre > code.sourceCode > span > a:first-child::before { text-decoration: underlin
 <div class="cell-output cell-output-display">
 <p><img src="about_files/figure-html/cell-3-output-1.png" class="img-fluid"></p>
 </div>
-<div class="cell-output cell-output-display" data-execution_count="7">
+<div class="cell-output cell-output-display" data-execution_count="3">
 <pre><code>RObject{RealSxp}
-[1] 0.7055466 4.1992591 5.6812357 6.1564709 7.4023856 7.7409825</code></pre>
+[1]  1.545150  3.424166  6.457199  5.990399  6.052035  9.332789 11.627656
+[8] 12.358898</code></pre>
 </div>
 </div>
 
